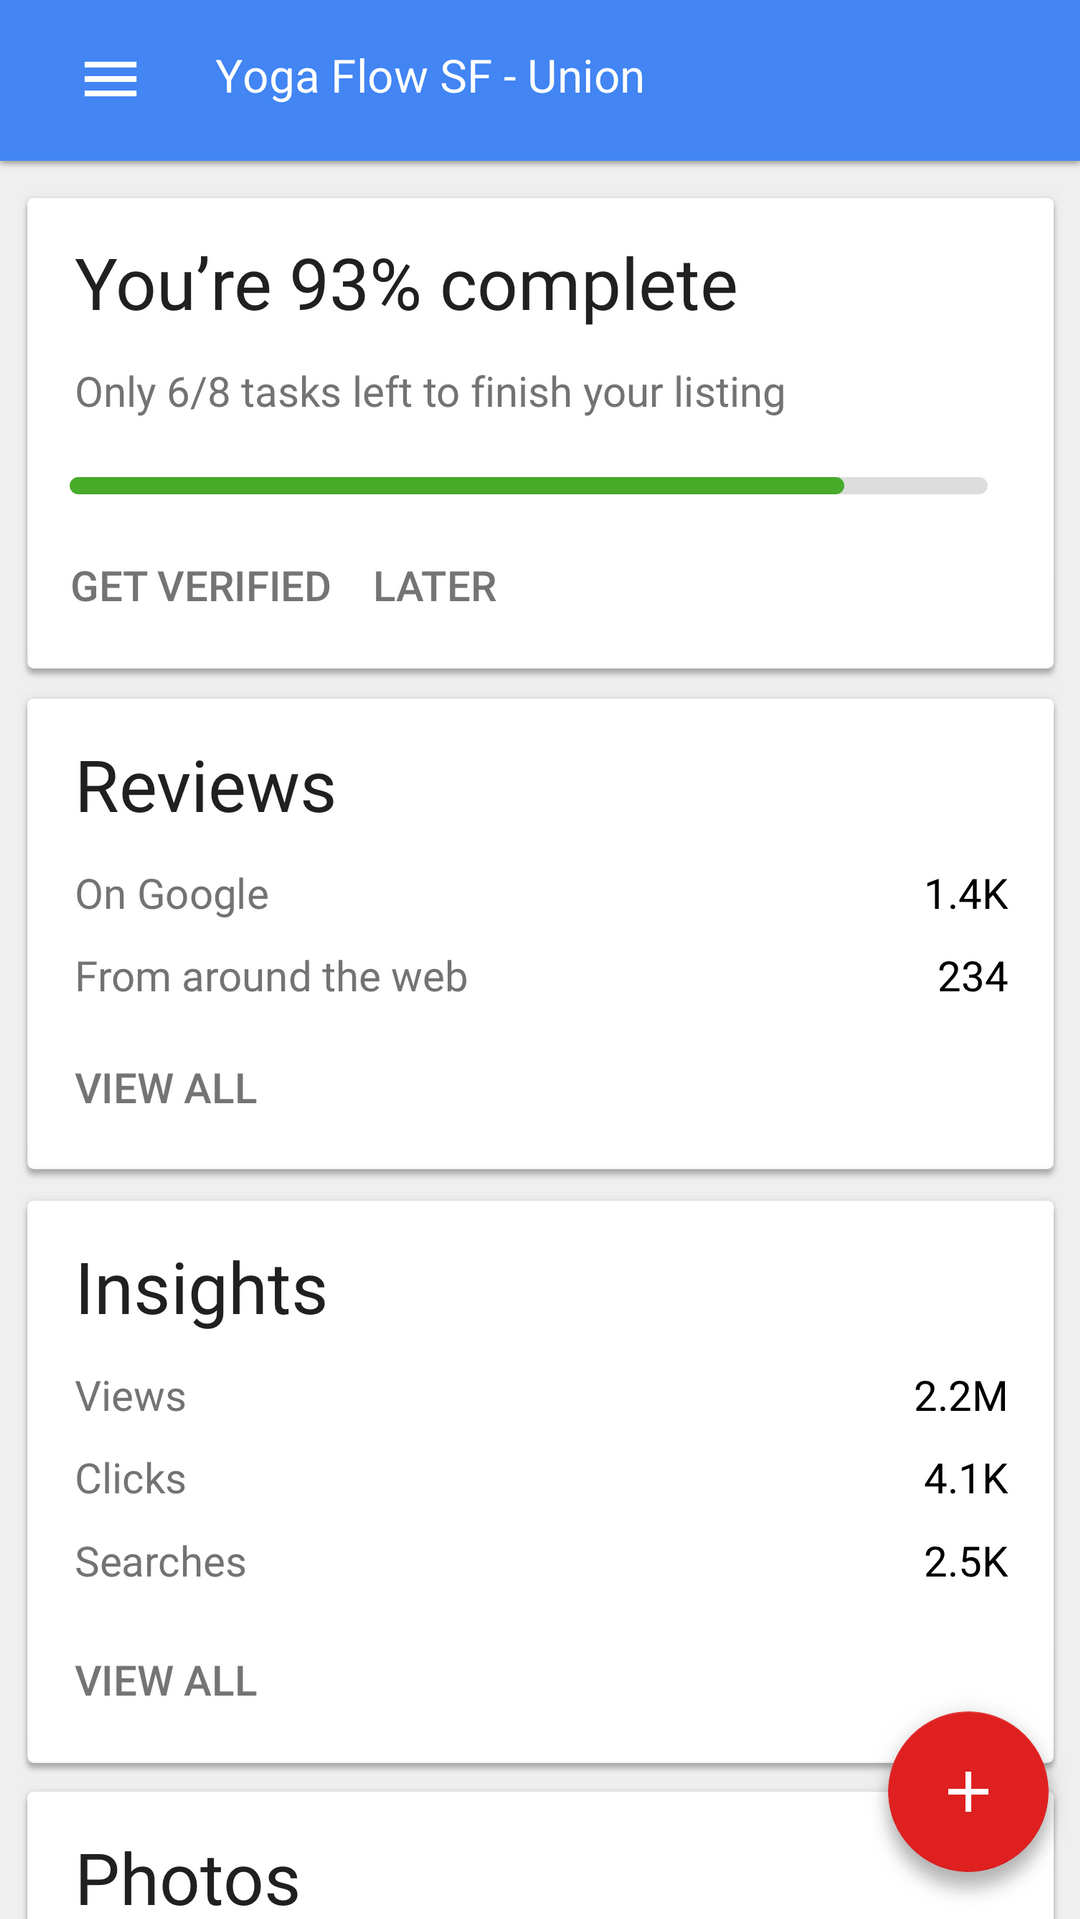
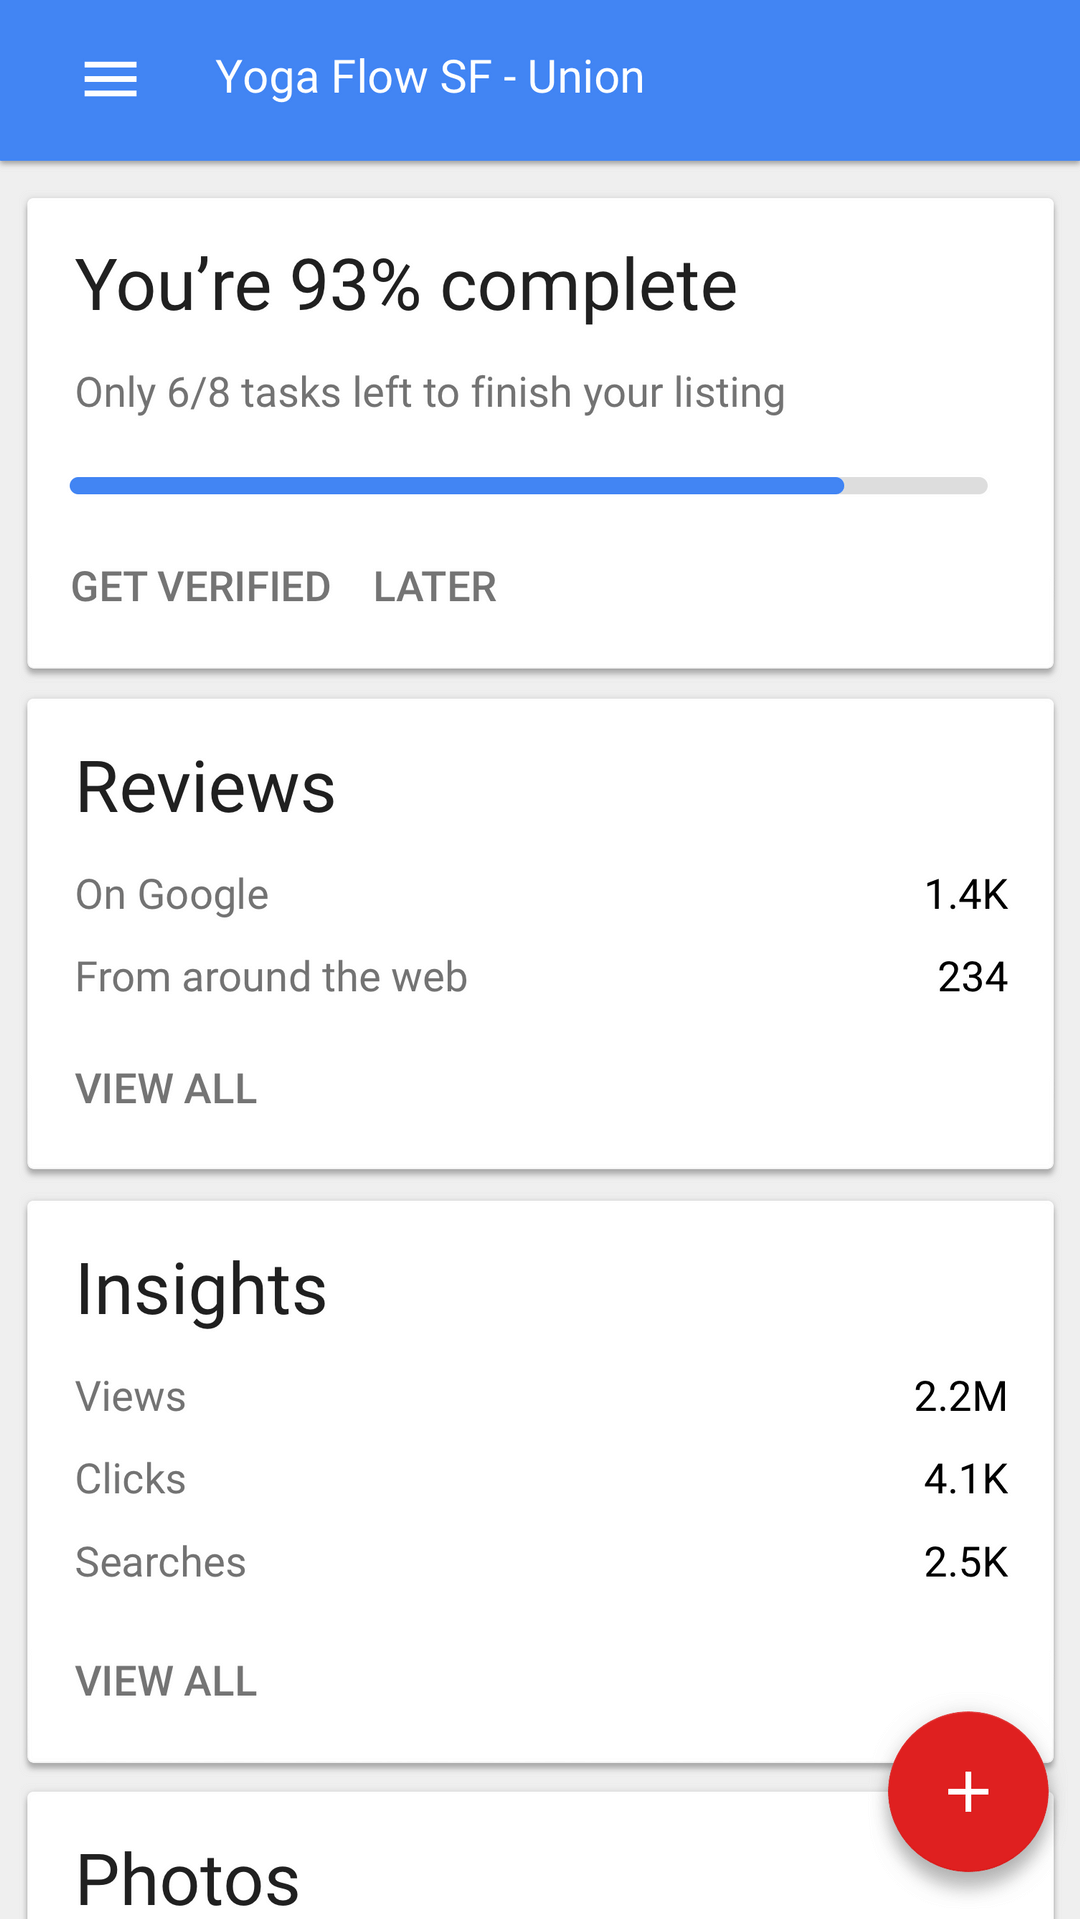
ugh
- gmb progress bar green to blue

Changed region(s): [[0.0611, 0.246, 0.7944, 0.2767]]

diff --git a/index.html b/index.html
@@ -1,6 +1,6 @@
 <!DOCTYPE html>
 <!--  This site was created in Webflow. http://www.webflow.com  -->
-<!--  Last Published: Sat Feb 22 2020 21:32:59 GMT+0000 (Coordinated Universal Time)  -->
+<!--  Last Published: Sat Feb 22 2020 21:37:02 GMT+0000 (Coordinated Universal Time)  -->
 <html data-wf-page="5cccd40515eeacef7eed02c4" data-wf-site="5cccd40515eeacf867ed02c1">
 <head>
   <meta charset="utf-8">

diff --git a/work/about.html b/work/about.html
@@ -1,6 +1,6 @@
 <!DOCTYPE html>
 <!--  This site was created in Webflow. http://www.webflow.com  -->
-<!--  Last Published: Sat Feb 22 2020 21:32:59 GMT+0000 (Coordinated Universal Time)  -->
+<!--  Last Published: Sat Feb 22 2020 21:37:02 GMT+0000 (Coordinated Universal Time)  -->
 <html data-wf-page="5d11c7836901a041128f9f6b" data-wf-site="5cccd40515eeacf867ed02c1">
 <head>
   <meta charset="utf-8">

diff --git a/work/cases.html b/work/cases.html
@@ -1,6 +1,6 @@
 <!DOCTYPE html>
 <!--  This site was created in Webflow. http://www.webflow.com  -->
-<!--  Last Published: Sat Feb 22 2020 21:32:59 GMT+0000 (Coordinated Universal Time)  -->
+<!--  Last Published: Sat Feb 22 2020 21:37:02 GMT+0000 (Coordinated Universal Time)  -->
 <html data-wf-page="5d1fcbaf396cc01c61d457b0" data-wf-site="5cccd40515eeacf867ed02c1">
 <head>
   <meta charset="utf-8">

diff --git a/work/gmb.html b/work/gmb.html
@@ -1,6 +1,6 @@
 <!DOCTYPE html>
 <!--  This site was created in Webflow. http://www.webflow.com  -->
-<!--  Last Published: Sat Feb 22 2020 21:32:59 GMT+0000 (Coordinated Universal Time)  -->
+<!--  Last Published: Sat Feb 22 2020 21:37:02 GMT+0000 (Coordinated Universal Time)  -->
 <html data-wf-page="5cd5a0ccd587fa0a91b77643" data-wf-site="5cccd40515eeacf867ed02c1">
 <head>
   <meta charset="utf-8">

diff --git a/work/live-times.html b/work/live-times.html
@@ -1,6 +1,6 @@
 <!DOCTYPE html>
 <!--  This site was created in Webflow. http://www.webflow.com  -->
-<!--  Last Published: Sat Feb 22 2020 21:32:59 GMT+0000 (Coordinated Universal Time)  -->
+<!--  Last Published: Sat Feb 22 2020 21:37:02 GMT+0000 (Coordinated Universal Time)  -->
 <html data-wf-page="5ccf5f939639c4680f780ef9" data-wf-site="5cccd40515eeacf867ed02c1">
 <head>
   <meta charset="utf-8">

diff --git a/work/local-bookings.html b/work/local-bookings.html
@@ -1,6 +1,6 @@
 <!DOCTYPE html>
 <!--  This site was created in Webflow. http://www.webflow.com  -->
-<!--  Last Published: Sat Feb 22 2020 21:32:59 GMT+0000 (Coordinated Universal Time)  -->
+<!--  Last Published: Sat Feb 22 2020 21:37:02 GMT+0000 (Coordinated Universal Time)  -->
 <html data-wf-page="5ccf696633f0ea7d550da921" data-wf-site="5cccd40515eeacf867ed02c1">
 <head>
   <meta charset="utf-8">

diff --git a/work/maps-suggest.html b/work/maps-suggest.html
@@ -1,6 +1,6 @@
 <!DOCTYPE html>
 <!--  This site was created in Webflow. http://www.webflow.com  -->
-<!--  Last Published: Sat Feb 22 2020 21:32:59 GMT+0000 (Coordinated Universal Time)  -->
+<!--  Last Published: Sat Feb 22 2020 21:37:02 GMT+0000 (Coordinated Universal Time)  -->
 <html data-wf-page="5ccf3ec20b9ef22974f1b59b" data-wf-site="5cccd40515eeacf867ed02c1">
 <head>
   <meta charset="utf-8">

diff --git a/work/nav.html b/work/nav.html
@@ -1,6 +1,6 @@
 <!DOCTYPE html>
 <!--  This site was created in Webflow. http://www.webflow.com  -->
-<!--  Last Published: Sat Feb 22 2020 21:32:59 GMT+0000 (Coordinated Universal Time)  -->
+<!--  Last Published: Sat Feb 22 2020 21:37:02 GMT+0000 (Coordinated Universal Time)  -->
 <html data-wf-page="5ccde3849639c493d6745976" data-wf-site="5cccd40515eeacf867ed02c1">
 <head>
   <meta charset="utf-8">

diff --git a/work/wait-times.html b/work/wait-times.html
@@ -1,6 +1,6 @@
 <!DOCTYPE html>
 <!--  This site was created in Webflow. http://www.webflow.com  -->
-<!--  Last Published: Sat Feb 22 2020 21:32:59 GMT+0000 (Coordinated Universal Time)  -->
+<!--  Last Published: Sat Feb 22 2020 21:37:02 GMT+0000 (Coordinated Universal Time)  -->
 <html data-wf-page="5cd05bfcc44956683f50c55f" data-wf-site="5cccd40515eeacf867ed02c1">
 <head>
   <meta charset="utf-8">
